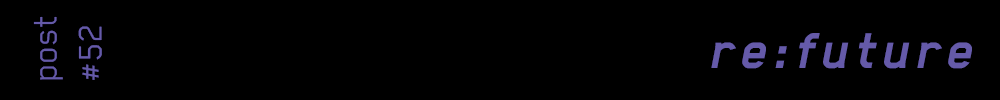
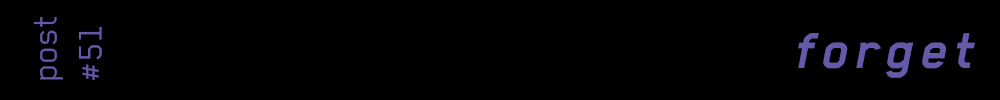
YES?

diff --git a/index11.html b/index11.html
@@ -23,11 +23,12 @@
 
 
      <div class="card">
-      <img src="post50.png">
-      <h2>SAM</h2>
-      <h5>4/14/2006</h5>
-      <p>I finally caved and told Sam about what’s going on. I haven’t been eating or sleeping because this entire ordeal has been tearing me apart physically and emotionally. 
-The best part? She doesn’t believe a goddamn word. She barely even agreed to listen to me speak. Clearly I personally wronged in some irreparable way without my knowledge, which seems to be really in style this year. Fucking awesome. Fucking fanstastic. I guess I’ll go stare at my ceiling. 
+      <img src="post55.png">
+      <h2>WHAT IF</h2>
+      <h5>4/28/2006</h5>
+      <p>Maybe we would be better off if we could change what’s real. 
+
+
  </p>
 
 
@@ -37,10 +38,10 @@ The best part? She doesn’t believe a goddamn word. She barely even agreed to l
     </div>
     
  <div class="card">
-      <img src="post49.png">
-      <h2>MAYBE I WAS WRONG</h2>
-      <h5>4/13/2006</h5>
-      <p>...
+      <img src="post54.png">
+      <h2>TOO INTO LAIN</h2>
+      <h5>4/25/2006</h5>
+      <p>Apparently to make myself feel more unhinged, I decided to rewatch Serial Experiments Lain and look into their functional theories on the potential of Earth’s Schumann resonances. 
 
  </p><br>
 
@@ -51,10 +52,10 @@ The best part? She doesn’t believe a goddamn word. She barely even agreed to l
     </div>
     
       <div class="card">
-      <img src="post48.png">
-      <h2>WAITING</h2>
-      <h5>4/04/2006</h5>
-      <p>I have spent every available moment monitoring my devices to record what’s happening when it happens again. I know something is wrong and someone is fucking with me and I need to know why. It can barely eat or sleep. I just want to know why this person is fucking with my code, and porbably my whole life. I know I sound crazy and you know what, I probably am, but there is someone out there who is trying to ruin my life through the one thing I used to enjoy. I’m going to find out who is doing this. If you’re reading this, and I know you are, I’m coming for you. 
+      <img src="post53.png">
+      <h2>RE:FUTURE</h2>
+      <h5>4/22/2006</h5>
+      <p>As we near the end of the worst 4 months of my life, I’ve been thinking a lot about what my purpose is in this world. Aside from questioning my stability from here on out, I have no idea what I want to do as a career, I just know I need to help people. I feel so responsible for the way Mike and Sam feel, and everything I’ve thought could help the world, like reducing emotions to binaries, isn’t what people need. We need real permanence. I can’t prove a single goddamn aspect of my life has happened during the last 4 months and I don’t trust myself to remember without proof given my current state. Fuck, it might not have and I’m just going crazy. That’s exactly my point. I don’t even know if I want to work in technology at all anymore. It just seems like it has the potential to hurt people. I don’t even know why I keep this blog other than as another journal I can’t trust. 
 
 
 
@@ -65,12 +66,13 @@ The best part? She doesn’t believe a goddamn word. She barely even agreed to l
     </div>
     
   <div class="card">
-      <img src="post47.png">
-      <h2>SOMEONE IS OUT THERE</h2>
-      <h5>4/01/2006</h5>
+      <img src="post52.png">
+      <h2>VIDEO GAMES AND POT</h2>
+      <h5>4/20/2006</h5>
      
 
-<p>I know it. Just wait. 
+<p>I don’t have any friends anymore so I’m just going to play Castlevania and get high. 
+
 
 
 </p> <br>
@@ -79,14 +81,17 @@ The best part? She doesn’t believe a goddamn word. She barely even agreed to l
 
     </div>
     <div class="card">
-      <img src="post46.png">
-      <h2>FUCK</h2>
+      <img src="post51.png">
+      <h2>FORGET</h2>
       <h5>4/16/2006</h5>
   
 
-<p> I was wrong about everything I said before, and I was seconds away from being able to prove it. I don’t know if I should even be posting this, but I guarantee someone is fucking with my phone and my computer without my knowledge or my consent. It’s not in my head because I saw my text editor with my own two eyes replace code in an instant, even while I had control of the mouse. I’ve had every camera we own set up to monitor my screens in the event that this happened, but my quick deploy wasn’t fast enough for what happened. This is beyond hacking, this is someone invading my computer for THIS. </p>
+<p> I'm just going to try and forget. </p>
 
-<CENTER><img src="nonsense.png"></CENTER>
+<br>
+
+       <center><img src="shin.jpg" height="400 px"></center> <br>
+
 
 <p>
 
@@ -132,8 +137,8 @@ Welcome to my world. </p>
         <a href="index12.html">[12]</a>
         <a href="index.html">[13]</a>
       </p>
-      <a href="index9.html" class="previous">&laquo; Previous</a>
-<a href="index11.html" class="next">Next &raquo;</a>
+      <a href="index10.html" class="previous">&laquo; Previous</a>
+<a href="index12.html" class="next">Next &raquo;</a>
    <br><br>
        <form action="index.html">
   
@@ -169,8 +174,8 @@ Welcome to my world. </p>
 
 <div class="footer" style=" outline-color: #655aa9">
   <h2></h2>
-    <center><a href="index9.html" class="previous">&laquo; Previous</a>
-<a href="index11.html" class="next">Next &raquo;</a></center> 
+    <center><a href="index10.html" class="previous">&laquo; Previous</a>
+<a href="index12.html" class="next">Next &raquo;</a></center> 
 <br>
 </div>
 <br><br>

diff --git a/index8.html b/index8.html
@@ -82,7 +82,7 @@ Straight from the website FAQs[link]: </p>
     
   <div class="card">
       <img src="post36.png">
-      <h2></h2>
+      <h2>HARD RESET</h2>
       <h5>2/21/2006</h5>
      
 
